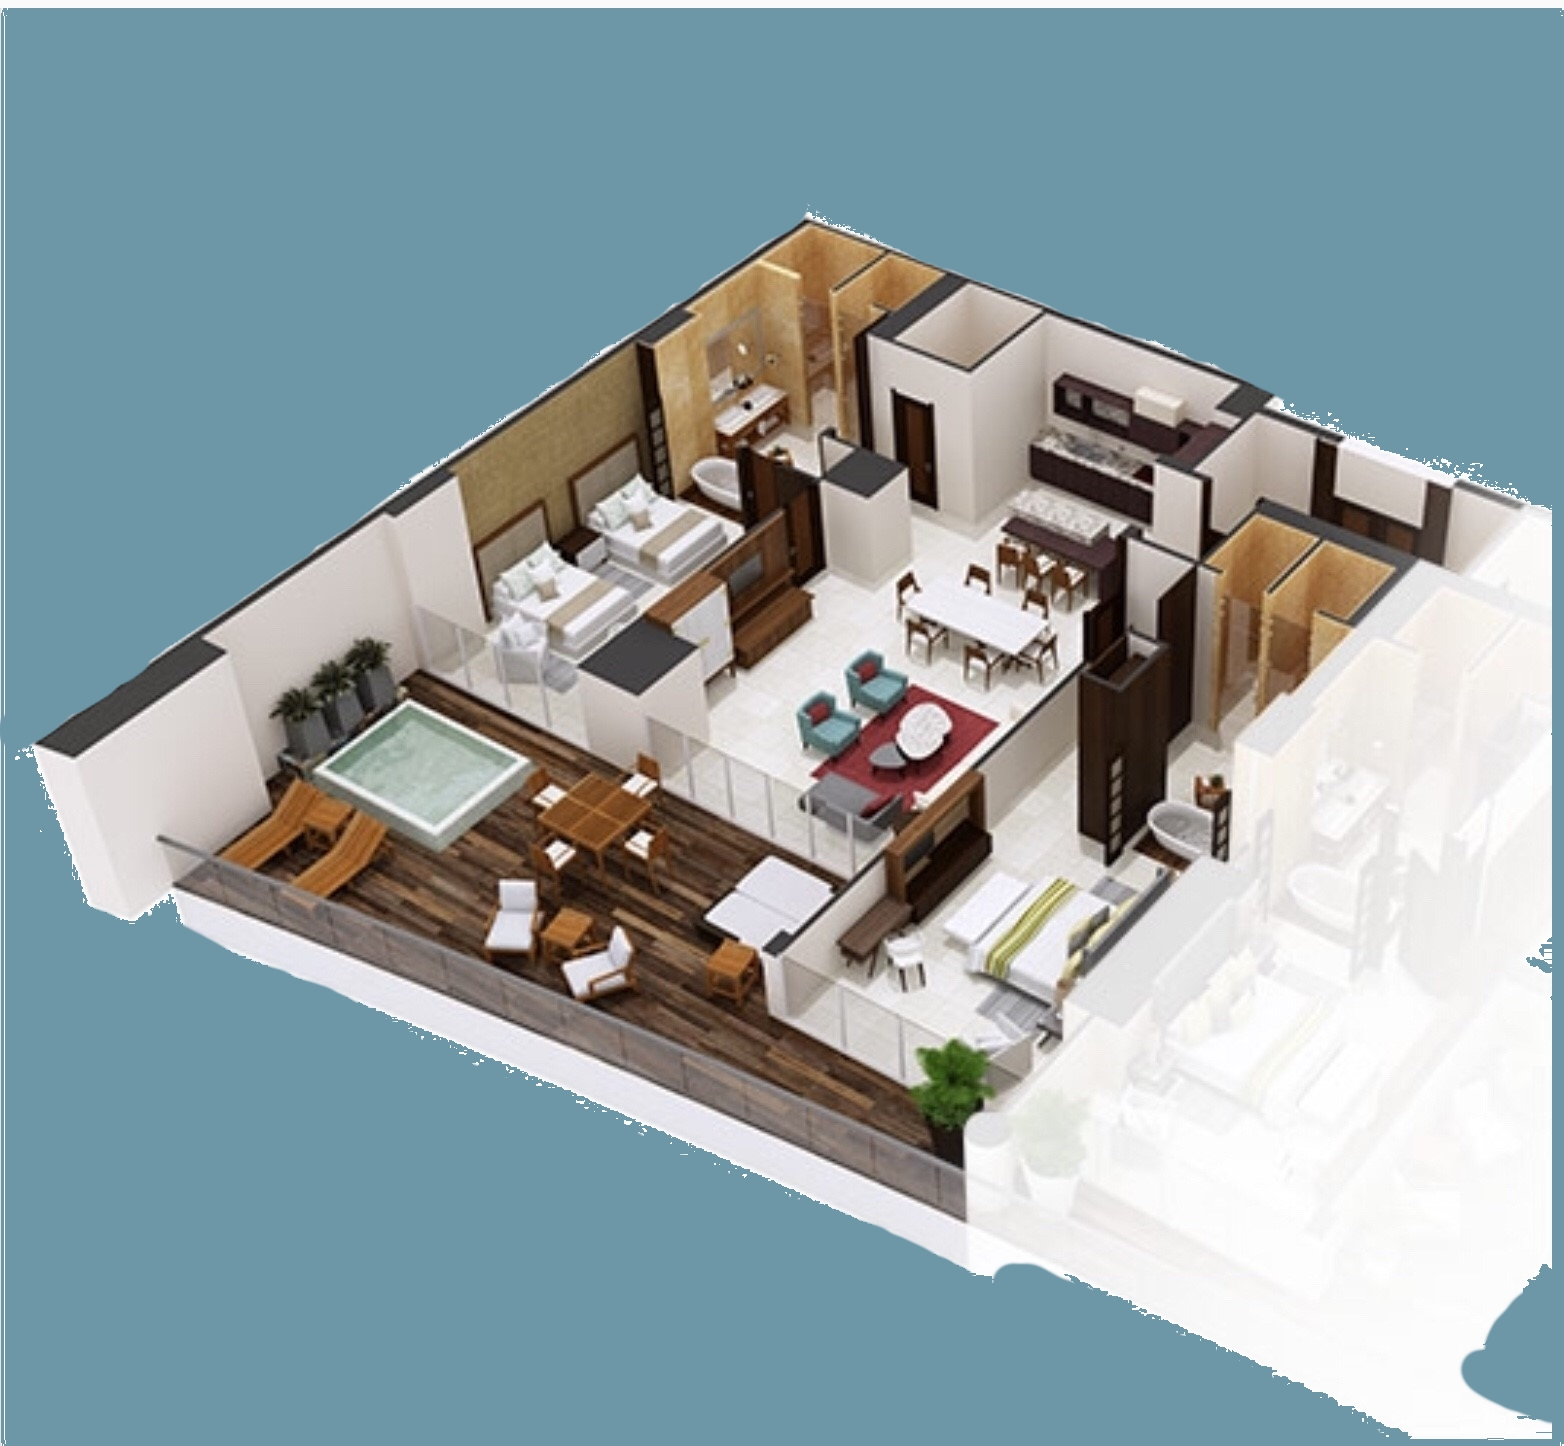
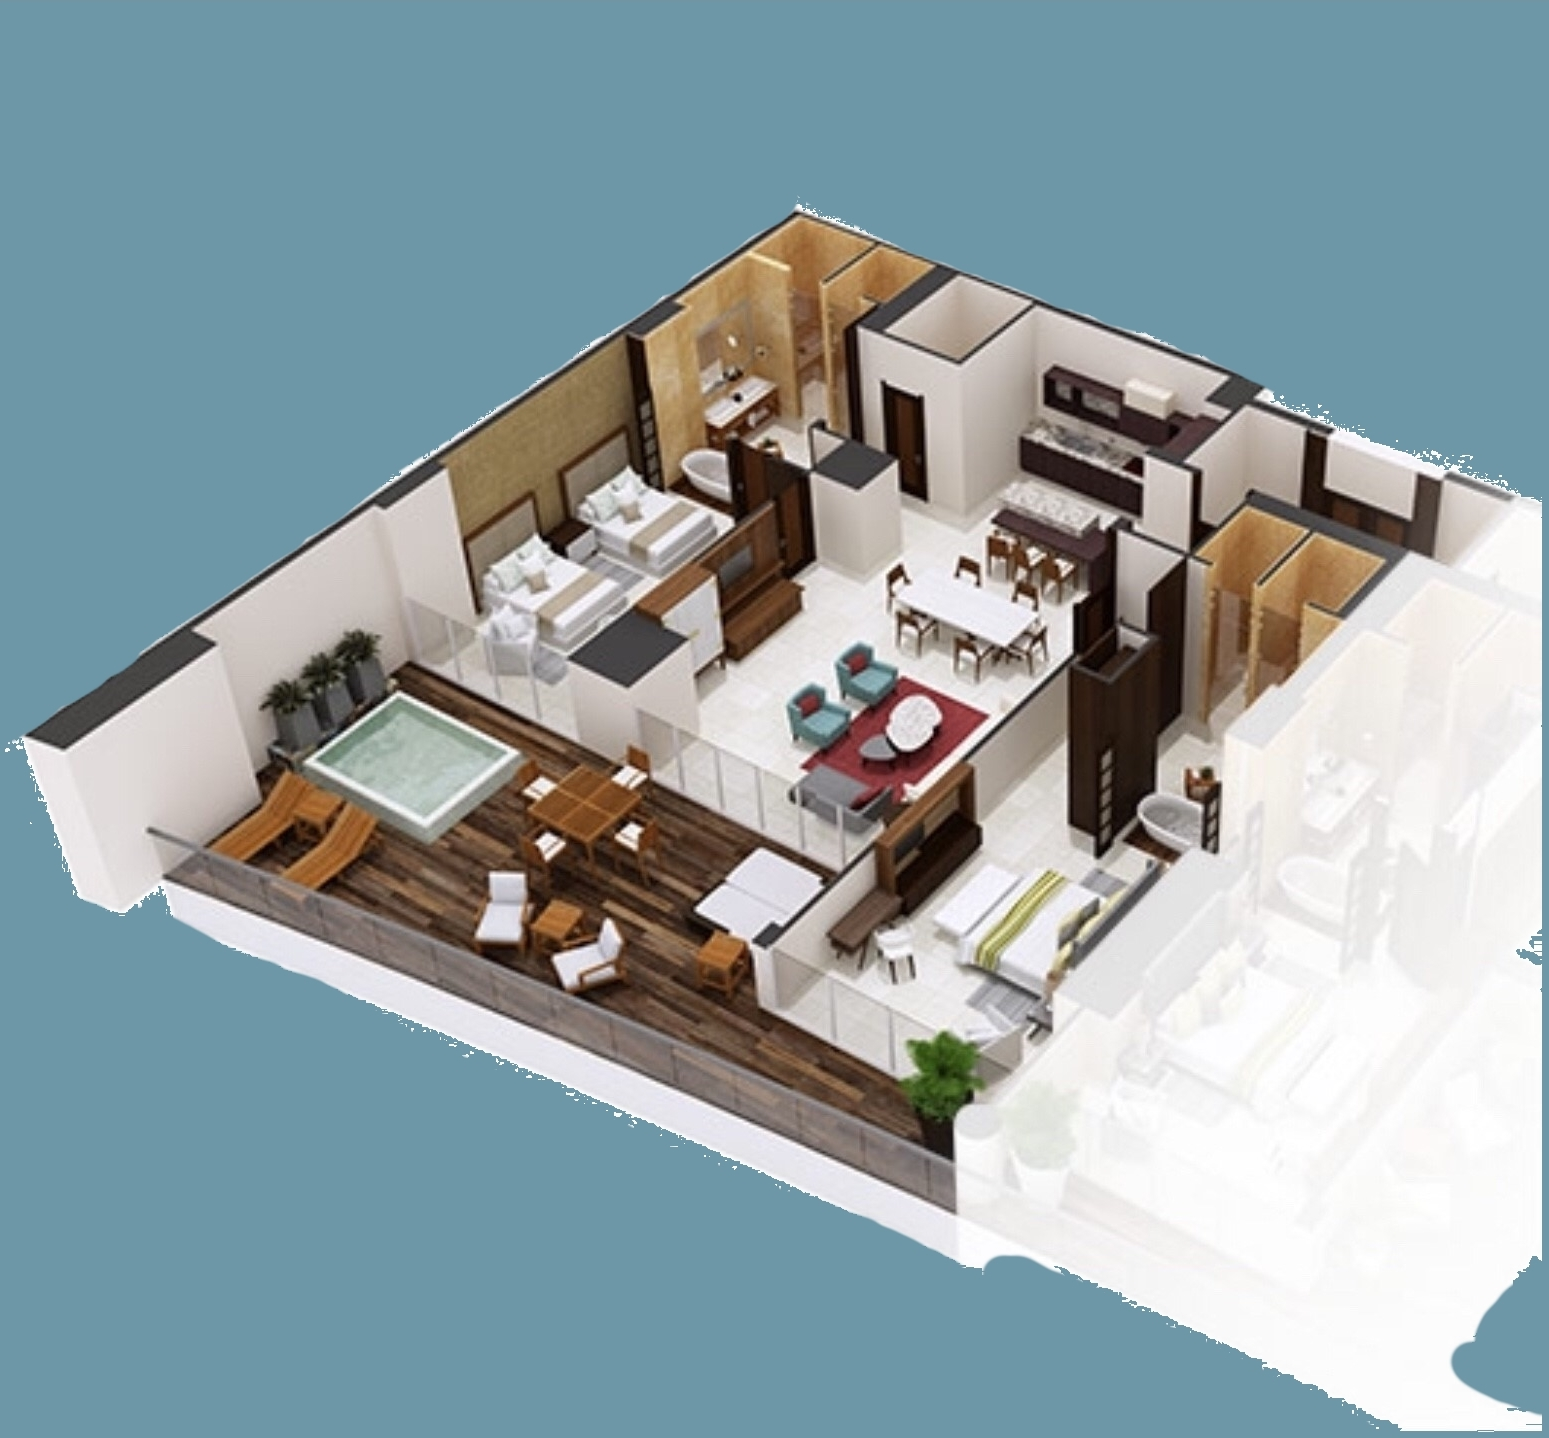
added custom styling for floorplan billboards

diff --git a/src/ContentTemplate.js b/src/ContentTemplate.js
@@ -43,7 +43,8 @@ export class ContentTemplate extends Component {
         gallery: this.checkForGallery(view),
         thumbnails: this.checkForThumbnailGrid(view),
         flavor: this.checkForFlavorText(view),
-        view: this.props.view
+        view: this.props.view,
+				classType: this.props.classType
       })
     }
   }
@@ -82,7 +83,7 @@ export class ContentTemplate extends Component {
   render(){
     if(this.state.view !== undefined){
       return(
-        <Container className={`${this.state.view}-page`}>
+        <Container className={`${this.state.view}-page ${this.state.classType}`}>
 					<Modals language={this.state.language} setLanguage={this.setLanguage}/>
           <Banner attrs={banners[`${this.props.banner}`]}/>
           <Row >

diff --git a/src/App.js b/src/App.js
@@ -6,11 +6,11 @@ var pages = require("./Content/pages.json");
 // import './Styles/App.css';
 
 function generateRouteComponent(page){
-  return <Route exact path={`${page.path}`} key={`${page.key}`} render={() => {return generateTemplate(`${page.view}`, `${page.banner}`)}} />
+  return <Route exact path={`${page.path}`} key={`${page.key}`} render={() => {return generateTemplate(`${page.view}`, `${page.banner}`, `${page.class}`)}} />
 }
 
-function generateTemplate(view, banner){
-  return <ContentTemplate view={`${view}`} banner={`${banner}`} />
+function generateTemplate(view, banner, classType){
+  return <ContentTemplate view={`${view}`} banner={`${banner}`} classType={`${classType}`}/>
 }
 
 const App = () => (

diff --git a/src/Components/Billboards/billboards_xs.css b/src/Components/Billboards/billboards_xs.css
@@ -252,6 +252,24 @@
 
   /* ****************** */
 
+	div.room.container div.billboard.with-image div.contents {
+		flex-direction: column;
+	}
+
+	div.room.container div.billboard.with-image div.filter {
+		opacity: .4;
+	}
+
+	div.room.container div.billboard.with-image div.image-col {
+		position: relative;
+		z-index: 102;
+	}
+
+	div.room.container div.billboard.with-image div.image-col div.image-container img.image{
+		min-height: 40vh;
+	}
+
+
   div.billboard.with-image div.image-col {
     min-height: 100%;
     position: absolute;
